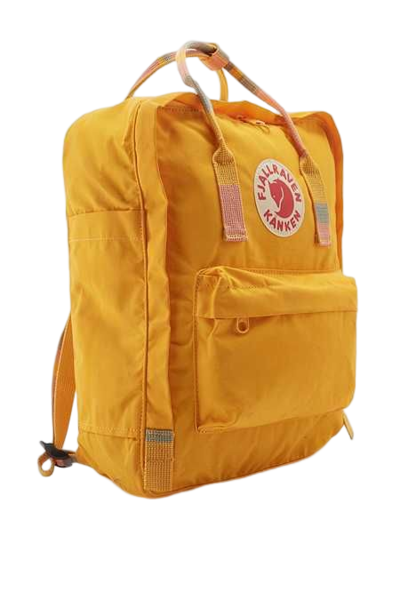
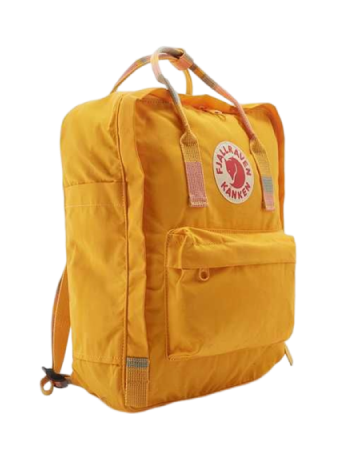
product description is added

Changed region(s): [[0.0857, 0.0622, 0.9143, 0.9333]]

diff --git a/flohmarkt-app/src/products.js b/flohmarkt-app/src/products.js
@@ -1,102 +1,102 @@
 import bag from "./assets/bag.png"
 import book from "./assets/book.png"
-import bot from "./assets/bot.png"
-import bucket from "./assets/buckethat.jpeg"
-import cross from "./assets/crossbag.jpeg"
-import jacket from "./assets/jacket.jpeg"
-import lampe from "./assets/lampe.jpeg"
+import shoes from "./assets/shoes.png"
+import bucket from "./assets/bucket.png"
+import crossbag from "./assets/crossbag.png"
+import denim from "./assets/denim.png"
+import lamp from "./assets/lamp.png"
 import pitcher from "./assets/pitcher.png"
 import stool from "./assets/stool.png"
-import sun from "./assets/sunglasses.png"
-import sweat from "./assets/sweatshirt.jpeg"
+import frame from "./assets/frame.png"
+import hoodie from "./assets/hoodie.png"
 
 
 export const PRODUCTS = [
     {
         id : 1,
-        productName:'Bag',
+        productName:' Fjallraven Backpack',
         productImage: bag,
-        price: 999,
+        price: 40,
 
     },
 
     {
         id : 2,
-        productName:'Book',
+        productName:'Folk + Form by Snøhetta',
         productImage: book,
-        price: 999,
+        price: 30,
 
     },
 
     {
         id : 3,
-        productName:'Bot',
-        productImage: bot,
-        price: 999,
+        productName:'Dr Martens 37',
+        productImage: shoes,
+        price: 120,
 
     },
 
     {
         id : 4,
-        productName:'Buckethat',
+        productName:'Bucket hat',
         productImage: bucket,
-        price: 999,
+        price: 15,
 
     },
 
     {
         id : 5,
-        productName:'Croosbag',
-        productImage: cross,
-        price: 999,
+        productName:'Croosbag Bimba Y Lola ',
+        productImage: crossbag,
+        price: 90,
 
     },
 
     {
         id : 6,
-        productName:'Jacket',
-        productImage: jacket,
-        price: 999,
+        productName:'Levis Denim Jacket M',
+        productImage: denim,
+        price: 65,
 
     },
 
     {
         id : 7,
-        productName:'Lampe',
-        productImage: lampe,
-        price: 999,
+        productName:'Retro Lamp',
+        productImage: lamp,
+        price: 99,
 
     },
 
     {
         id : 8,
-        productName:'Pitcher',
+        productName:'Ceramic Pitcher',
         productImage: pitcher,
-        price: 999,
+        price: 21,
 
     },
 
     {
         id : 9,
-        productName:'Stool',
+        productName:'Ceramic Stool',
         productImage: stool,
-        price: 999,
+        price: 120,
 
     },
     
     {
         id : 10,
-        productName:'Sunglasses',
-        productImage: sun,
-        price: 999,
+        productName:'Oliver People Frame',
+        productImage: frame,
+        price: 50,
 
     },
 
     {
         id : 11,
-        productName:'Sweatshirt',
-        productImage: sweat,
-        proce: 949,
+        productName:'Pull&Bear Hoodie M',
+        productImage: hoodie,
+        price: 20 ,
 
     },
     

diff --git a/flohmarkt-app/src/pages/Shop/shop.css b/flohmarkt-app/src/pages/Shop/shop.css
@@ -1,30 +1,37 @@
+.shop {
+    background: rgb(224,238,174);
+    background: linear-gradient(0deg, rgba(224,238,174,1) 2%, rgba(255,255,255,1) 100%);
+}
+
+
 .head {
     font-family: 'Bagel Fat One', cursive;
-    color: rgb(255, 98, 0);
-    font-size: 100px;
+    color: rgb(177, 130, 182);
+    background: transparent;
+    font-size: 150px;
     font-weight: 200;
 }
 
 .head:hover {
     cursor: url('./magicalwand.png'), auto;
-    transform: scale(1.1);
-    transition: 0.3s ease-in-out;
+    
 }
 
 .shopTitle {
     margin-top: 100px;
     text-align: center;
     font-size: 40px;
-  }
-  .products {
+}
+
+.products {
     width: 100%;
     height: auto;
     display: grid;
     grid-template-columns: 1fr 1fr 1fr;
     place-items: center;
-  }
+}
   
-  .product {
+.product {
     border-radius: 15px;
     width: 300px;
     height: 350px;
@@ -33,23 +40,41 @@
     flex-direction: column;
     justify-content: center;
     align-items: center;
-  }
-  
-  .product img {
+}
+
+p {
+    margin-bottom: 4px;
+}
+
+
+.product img {
     width: 300px;
-  }
+    background: transparent
+}
   
-  .product .description {
+.product .description .name {
     text-align: center;
-  }
+    font-family: 'Didact Gothic', sans-serif;
+    font-weight: 100;
+    color: rgb(65, 65, 65);
+    
+}
+
+.product .description .price {
+    text-align: center;
+    font-family: 'Didact Gothic', sans-serif;
+    font-weight: 600;
+    color: rgb(64, 64, 64);
+    margin-top: 0;
+}
   
-  .product:hover {
+.product img:hover {
     transition: 0.3s ease-in;
     cursor: url('./magicalwand.png'), auto;
-    transform: scale(1.1);
-  }
+    transform: scale(1.08);
+}
   
-  .addToCartBttn {
+.addToCartBttn {
     background-color: transparent;
     border: 2px solid rgb(19, 19, 19);
     min-width: 100px;
@@ -58,11 +83,11 @@
     padding-top: 5px;
     padding-bottom: 5px;
     border-radius: 15px;
-  }
+}
   
-  .addToCartBttn:hover {
+.addToCartBttn:hover {
     background-color: rgb(19, 19, 19);
     color: white;
     cursor: auto;
-  }
+}
 

diff --git a/flohmarkt-app/src/pages/Shop/Product.js b/flohmarkt-app/src/pages/Shop/Product.js
@@ -1,5 +1,7 @@
 import React from "react";
 
+
+
 export const Product = (props) => {
   const { id, productName, price, productImage } = props.data;
   
@@ -9,12 +11,9 @@ export const Product = (props) => {
       <img src={productImage} />
       <div className="description">
         <p>
-          <b>{productName}</b>
+          <b className="name">{productName}</b>
         </p>
-        <p> ${price}</p>
-        <p>
-          <b>{id}</b>
-        </p>
+        <p className="price"> €{price}</p>
       </div>
     </div>
   );

diff --git a/flohmarkt-app/src/pages/Shop/Shop.js b/flohmarkt-app/src/pages/Shop/Shop.js
@@ -7,7 +7,7 @@ const Shop = () => {
   return (
     <div className="shop">
       <div className="shopTitle">
-        <h2 className="head"> Liebe Flohmarkt</h2>
+        <h2 className="head"> Shop</h2>
       </div>
       <div className="products">
         {PRODUCTS.map((product) => (

diff --git a/flohmarkt-app/src/components/Navbar.css b/flohmarkt-app/src/components/Navbar.css
@@ -1,10 +1,9 @@
 .navbar {
     width: 100%;
-    height: 80px;
-    background-color: rgb(255, 255, 255);
+    height: 80px;    
     display: flex;
-    justify-content: center;
-    align-items: center;
+    flex-wrap: nowrap;
+    padding: 10px;
 }
   
 .links {
